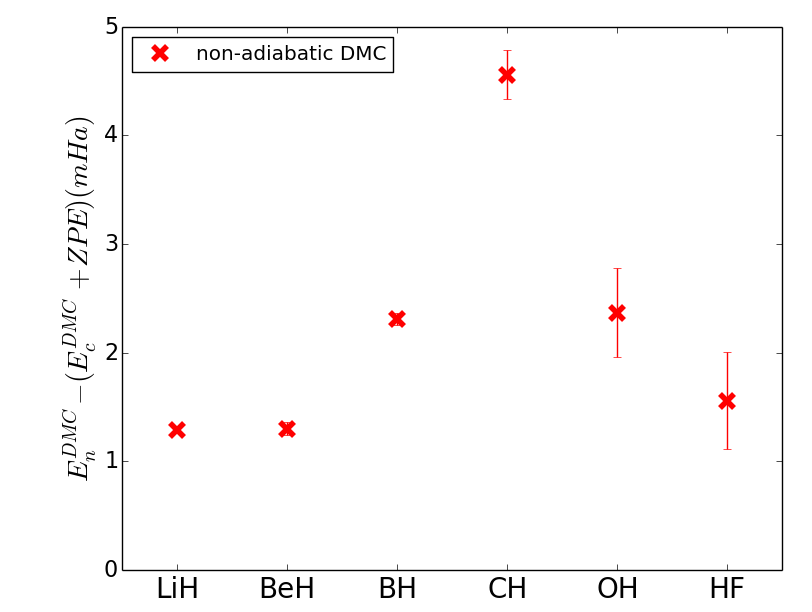
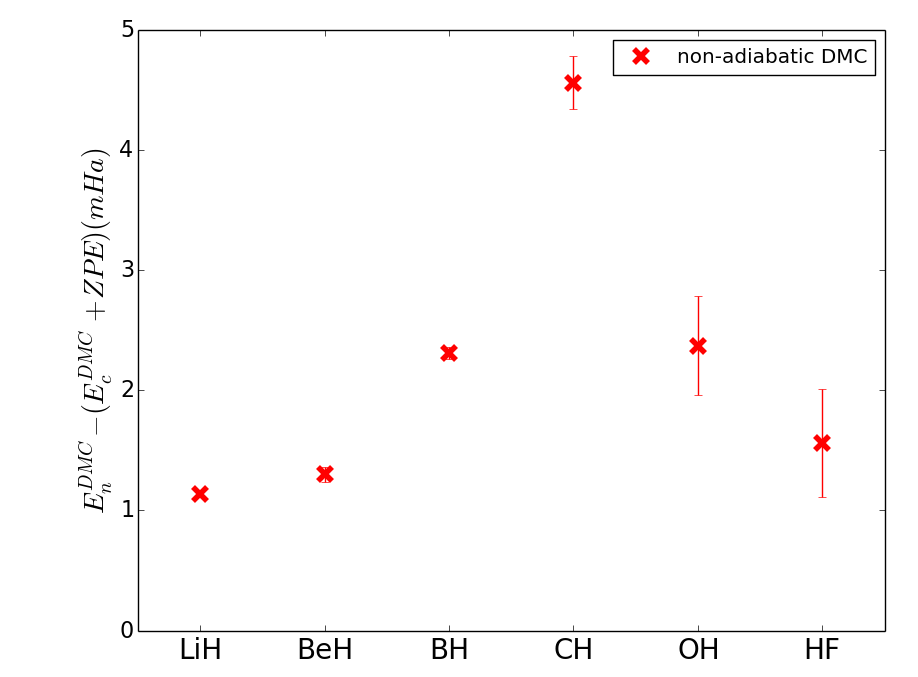
Updated LiH optimized at ECG distance

diff --git a/main.tex b/main.tex
@@ -25,7 +25,7 @@ Diffusion Monte Carlo is a projector method that evolves a trial wavefunction in
 
 If the trial wavefunction has the same nodal surface as the exact ground-state wavefunction, FN-DMC will obtain the exact ground-state energy.  Approximate nodal surfaces can be generated through optimization of the full wave function. Such approximate nodal surfaces have been tested and validated on a wide range of systems, and consistently provide an excellent approximation of the exact ground-state energy,  comparable to the state of the art in \textit{ab initio} simulations~\cite{grossman1}. In addition the energies generated with FN-DMC are variational with regards to the ground state energy.
 
-In all but a handful of previous QMC simulations, ions are "clamped" to their equilibrium positions. Recent advances~\cite{Nightingale_Linear,Umrigar_Linear,Brown_Bench} have made it possible to optimize thousands of wave function parameters simultaneously with variational Monte Carlo within the clamped nuclei approximation. However, Such an assumption is not fundamentally required by FN-DMC.  In our previous work we found that the most important effect to optimize for were the nodes due to electron-electron correlations~\cite{Tubman_ECG}, and in this regard we use more sophisticated electronic terms in the wave function than the ion part of the wave function.
+In all but a handful of previous QMC simulations, ions are "clamped" to their equilibrium positions. Recent advances~\cite{Nightingale_Linear,Umrigar_Linear,Brown_Bench} have made it possible to optimize thousands of wave function parameters simultaneously with variational Monte Carlo within the clamped nuclei approximation. However, such an assumption is not fundamentally required by FN-DMC.  In our previous work we found that the most important effect to optimize for were the nodes due to electron-electron correlations~\cite{Tubman_ECG}, and in this regard we use more sophisticated electronic terms in the wave function than the ion part of the wave function.
 
 \subsection{Electron Wavefunction and Optimization}
 There are several different approaches for generating high quality wave functions ~\cite{Umrigar_Alleviation,Toulouse_Bench, Brown_Bench,Seth_Bench}. We use an initial guess for the wavefunction that is generated from complete active space self-consistent field (CASSCF) \cite{Chaban_MCSCF,Szabo} calculation using the quantum chemistry package GAMESS \cite{GAMESS}. The optimized orbitals are then used in a singles and doubles configuration interaction (CISD) calculation to generate a series of configuration state functions (CSF)~\cite{Clark_Bench}. The multi-CSF expansion of the wavefunction can be expressed in the following form,
@@ -57,7 +57,7 @@ where $\vec{R}$ includes spatial coordinates of all ions. The ionic wave functio
 \end{align}
 where $a$ is a coefficient for the ion wave function that we optimize and $b_{ij}$ are taken to be the equilibrium distances between the nuclei. The equilibrium geometries for LiH, BeH and BH are chosen to be the ECG-optimized distances for a comparison with the ECG method and the geometries for the rest of the hydrides are taken from experimental data \cite{CCCBDB}. FN-DMC was then performed with the fully optimized electron-ion wave function. We performed timestep extrapolation for all of the tested systems. At least four timesteps from $0.005~\text{Ha}^{-1}$ to $0.001~\text{Ha}^{-1}$ were used for all systems in the adiabatic FN-DMC and at least three timesteps from $0.001~\text{Ha}^{-1}$ to $0.0001~\text{Ha}^{-1}$ were used in non-adiabatic FN-DMC.
 
-Due to the locality of the Gaussian basis set used in the quantum chemistry calculations for constructing the electronic wave function, the nodes change based on the ionic positions, which we have previously called the dragged-node approximation. In particular, the nodes only coincide with those obtained from the quantum chemistry calculation when the ions are at their equilibrium positions $\bar{\psi}_e(\vec{r},\vec{R}_e)=\psi_e(\vec{r})$. Although there are approaches for going beyond this approximation, it was demonstrated to be highly accurate over a range of molecules in previous work.~\cite{Tubman_ECG} For the systems considered here, we can impose various symmetries of the Hamiltonian onto the wave function that arise from the relative motion of the ions. In Fig.~\ref{fig:drag} we demonstrate this strategy for the simple cases of a hydrogen atom and a H$_2^+$ molecular ion. Although the dragged-node technique is developed with atomic and diatomic systems in mind, it is not difficult to generalize it for use in larger systems or even apply to parts of a bigger system, e.g., treating light ions as quantum particles and heavy ions as "clamped". 
+Due to the locality of the Gaussian basis set used in the quantum chemistry calculations for constructing the electronic wave function, the nodes change based on the ionic positions, which we have previously called the dragged-node approximation~\cite{Tubman_ECG}. In particular, the nodes only coincide with those obtained from the quantum chemistry calculation when the ions are at their equilibrium positions $\bar{\psi}_e(\vec{r},\vec{R}_e)=\psi_e(\vec{r})$. Although there are approaches for going beyond this approximation, it was demonstrated to be highly accurate over a range of molecules in previous work.~\cite{Tubman_ECG} For the systems considered here, we can impose various symmetries of the Hamiltonian onto the wave function that arise from the relative motion of the ions. In Fig.~\ref{fig:drag} we demonstrate this strategy for the simple cases of a hydrogen atom and a H$_2^+$ molecular ion. This can be generalized for use in larger systems or even apply to parts of a bigger system, e.g., treating light ions as quantum particles and heavy ions as "clamped". 
 
 \section{Results and Discussion}
 \input{Table/atoms}

diff --git a/Table/diatomics.tex b/Table/diatomics.tex
@@ -31,7 +31,7 @@
 \multicolumn{1}{c}{} &
 \multicolumn{1}{c}{} &
 \multicolumn{1}{c}{} \\
-E (this work) & \text{-}\textbf{8.070521(7)} & \text{-}15.24793(1) & \text{-}25.28868(2) & \text{-}38.4781(1) & \text{-}75.7352(1) & \text{-}100.4556(2) \\
+E (this work) & \text{-}8.07037(2) & \text{-}15.24793(1) & \text{-}25.28868(2) & \text{-}38.4781(1) & \text{-}75.7352(1) & \text{-}100.4556(2) \\
 $E_{\text{ref}}$ \tnote{a} \cite{Adamowicz_LiH,Koput_BeH,Miliordos_BH,Davidson_Atoms,Feller_Corrections} & \text{-}8.0705473 & \text{-}15.247846 & \text{-}25.287650 & \text{-}38.4792(2) & \text{-}75.7382(2) & \text{-}100.4600(3) \\
 \multicolumn{1}{c}{} & 
 \multicolumn{1}{c}{} &
@@ -51,7 +51,7 @@ ECG \cite{Bubin_LiH_noBO,Bubin_BeH_noBO,Bubin_BH_noBO} & \text{-}8.0664371(15) &
 \multicolumn{1}{c}{} &
 \multicolumn{1}{c}{} &
 \multicolumn{1}{c}{} \\
-$D_{e}$ (this work) & 0.092465(8) & 0.08062(1) & 0.13491(2) & 0.13361(2) & 0.16944(4) & 0.2240(2) \\
+$D_{e}$ (this work) & 0.09231(2) & 0.08062(1) & 0.13491(2) & 0.13361(2) & 0.16944(4) & 0.2240(2) \\
 Feller \tnote{b} \cite{Feller_Corrections} & 0.09262(5) & 0.0809(4) & 0.1354(2) & 0.1342(2) & 0.1709(2) & 0.2258(3) \\
 \multicolumn{1}{c}{} & 
 \multicolumn{1}{c}{} &
